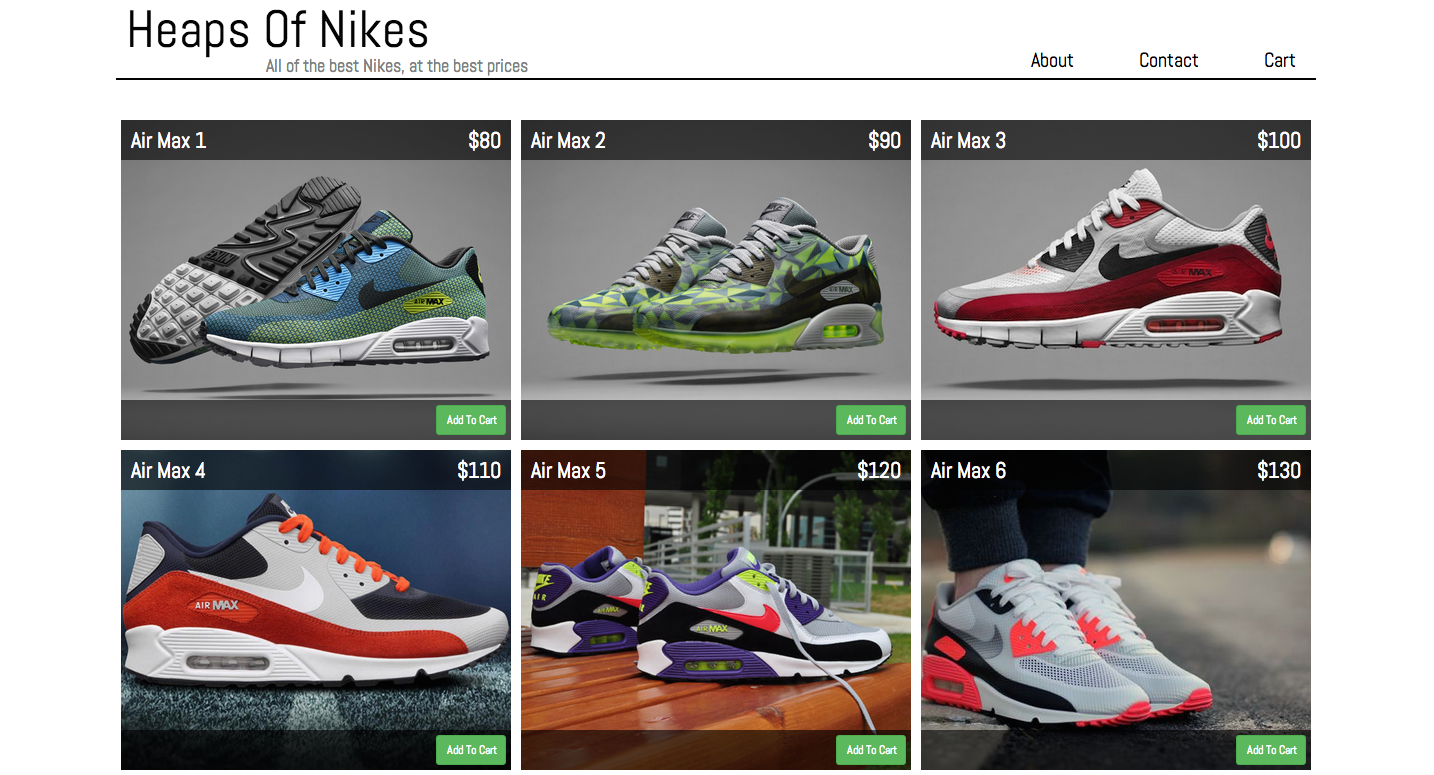
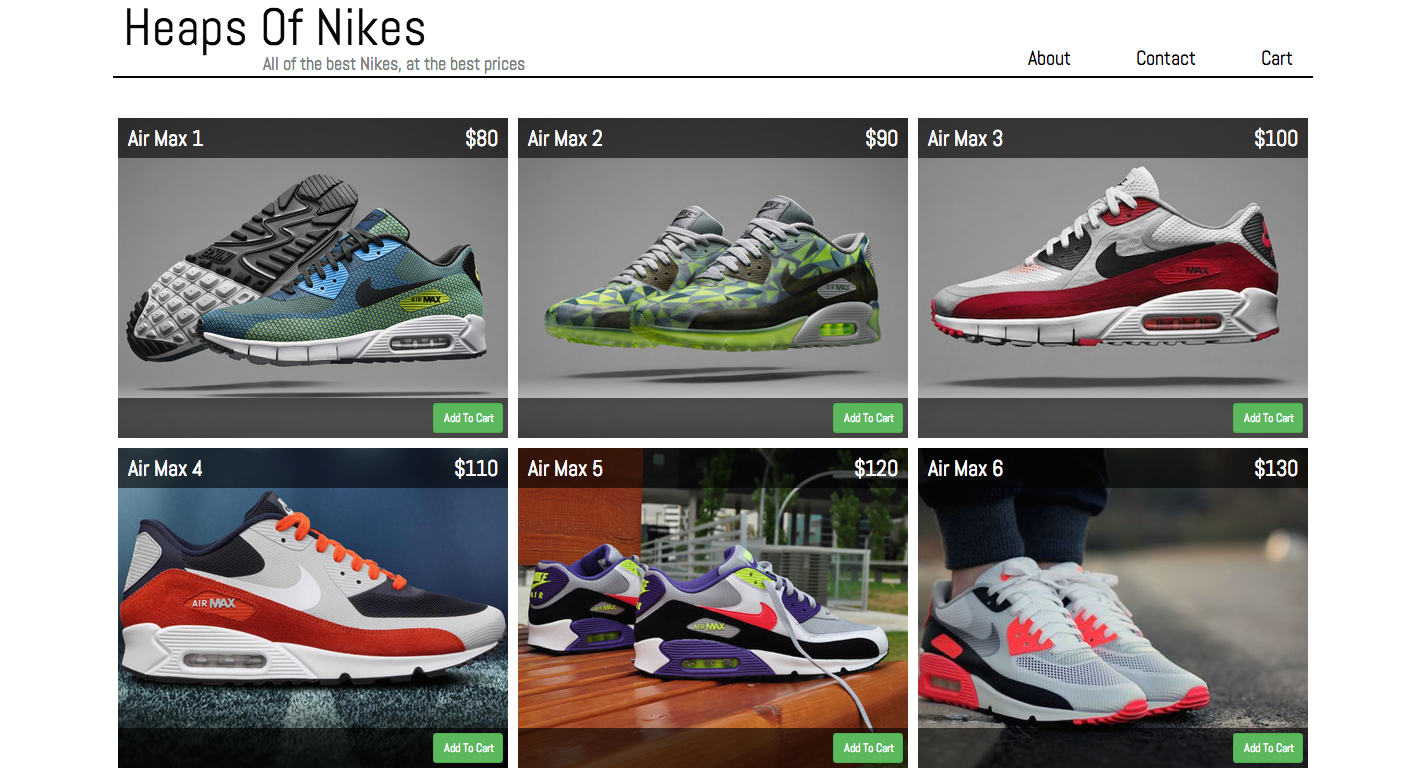
heaps. carousels, responsive, first mobile edition, loads of tweaks

diff --git a/source/stylesheets/style.scss b/source/stylesheets/style.scss
@@ -4,6 +4,13 @@
   }
 }
 
+@mixin device-respond-to {
+  @media all and (max-device-width: 320px) {
+    @content;
+  }
+}
+
+
 nav {
   position: fixed;
   width: 100%;
@@ -19,20 +26,45 @@ nav {
     font-family: 'Poiret One', cursive;
     letter-spacing: 4px;
     top: 25px;
+
+    @include device-respond-to {
+      font-size: 4em;
+      top: 7px;
+    }
   }
 
   ul {
     display: inline-block;
     margin: 64px 30px 0 0;
 
+    @include respond-to(max-width, 480px) {
+      margin: 12px 10px 0 0;
+      border-left: 1px dashed black;
+      padding-left: 0px;
+    }
+
     li {
-    display: inline-block;
-    // position: absolute;
-    list-style: none;
-    padding-left: 60px;
+      display: inline-block;
+      list-style: none;
+      padding-left: 40px;
+
+      &:hover {
+        text-decoration: underline;
+      }
+
+      @include respond-to(max-width, 480px) {
+        display: block;
+        padding: 15px 0 0 10px;
+      }
+
+      @include device-respond-to {
+        font-size: 26px;
+        margin-top: -45px;
+      }
     }
   }
 }
+
 
 a {
   text-decoration: none !important;
@@ -63,21 +95,48 @@ a {
 
   .about-margin {
     top: 90px;
+    width: 100%;
     text-align: center;
     position: absolute;
-    padding: 90px 16% !important;
+    padding: 90px 16%;
     // background-color: rgba(255,255,255,0.4);
     background-color: rgba(255,255,255, 0.8);
-    background-image: url(  )
+
+    @include respond-to(max-width, 610px) {
+      padding: 90px 7%;
+    }
+
+    @include device-respond-to {
+      padding: 90px 50px;
+
+      p {
+        font-size: 36px;
+        padding: 20px 0;
+        // margin: 5px;
+      }
+
+      span {
+        font-size: 24px;
+      }
+    }
   }
+}
+
+@mixin carousel-container {
+  width: 100%;
+  // height: 400px;
 }
 
 @mixin carousel {
   position: relative;
   overflow: hidden;
   width: 750px;
-  height: 415px;
+  // height: 400px;
   margin: auto;
+  // margin-bottom: 20px;
+  -webkit-box-shadow: 0px 8px 34px -2px rgba(0,0,0,0.75);
+  -moz-box-shadow: 0px 8px 34px -2px rgba(0,0,0,0.75);
+  box-shadow: 0px 8px 34px -2px rgba(0,0,0,0.75);
 }
 
 @mixin carousel-images {
@@ -85,19 +144,14 @@ a {
   position: absolute;
   top: 0;
   left: 0;
-  width: 750px;
   height: auto;
-  border: 7px solid black;
-  border-radius: 10px;
+  -webkit-box-shadow: 0px 8px 34px -2px rgba(0,0,0,0.75);
+  -moz-box-shadow: 0px 8px 34px -2px rgba(0,0,0,0.75);
+  box-shadow: 0px 8px 34px -2px rgba(0,0,0,0.75);
+  // width: 750px;
 
-
-  @include respond-to(max-width, 990px) {
-  }
-  @include respond-to(max-width, 780px) {
-  }
-  @include respond-to(max-width, 690px) {
-  }
-  @include respond-to(max-width, 510px) {
+  @include respond-to(max-width, 770px) {
+    margin-left: 5px;
   }
 }
 
@@ -106,18 +160,43 @@ a {
   border-top: 2px solid black;
 
   p {
-    margin: 15px 340px;
+    margin: 15px 0;
+    margin-left: 20%;
+    margin-right: 20%;
+
+    @include respond-to(max-width, 990px) {
+      margin-left: 15%;
+      margin-right: 15%;
+    }
+
+    @include respond-to(max-width, 780px) {
+      margin-left: 10%;
+      margin-right: 10%;
+    }
+
+    @include device-respond-to {
+      font-size: 26px;
+      margin: 15px 5%;
+    }
   }
 
   h3 {
     margin-top: 10px;
+
+    @include device-respond-to {
+      font-size: 2.4em;
+    }
   }
 
   .btn {
     border: 1px solid black;
     padding: 4px 15px;
-    margin: 10px 0 40px 0;
+    margin: 10px 0 25px 0;
     display: inline-block;
+
+    @include device-respond-to {
+      padding: 12px 45px;
+    }
   }
 
   .btn-1:hover {
@@ -133,38 +212,43 @@ a {
     background-color: rgb(143, 166, 112);
   }
 
-  .carousel-arrow {
-    position: absolute;
-    right: 270px;
-    top: 407px;
-    cursor: pointer;
+  .btn.btn-5 {
+    width: 200px;
+    bottom: -30px;
+    right: 2%;
+    margin-top: 40px;
   }
 
-  .arrow-1 {
-    top: 427px;
+  .btn.btn-5:hover {
+    background: rgba(106,160,152,1);
   }
 
+// make an outer div for the image and set the arrow to be relative of the div.
+// reduce side of image and div on window resize: em;
 
   #storebuilder-description {
     position: relative;
     border-bottom: 1px solid black;
     padding-bottom: 20px;
 
-    #storebuilder-carousel {
-      @include carousel;
+    .carousel-container {
+      @include carousel-container;
 
-      img {
-        @include carousel-images;
+      #storebuilder-carousel {
+        @include carousel;
+
+        img {
+          @include carousel-images;
+        }
       }
     }
-
   }
 
 
   #threedee-description {
     position: relative;
     border-bottom: 1px solid black;
-    padding-bottom: 40px;
+    padding-bottom: 20px;
 
       #threedee-carousel {
       @include carousel;
@@ -191,7 +275,7 @@ a {
 }
 
 footer {
-  height: 200px;
+  height: 260px;
   background-image: url(/images/background.jpg);
   background-repeat: repeat;
   background-position: center;
@@ -209,7 +293,7 @@ footer {
     li {
       list-style: none;
       display: inline-block;
-      padding: 10px 30px;
+      padding: 40px 20px;
     }
   }
 }
